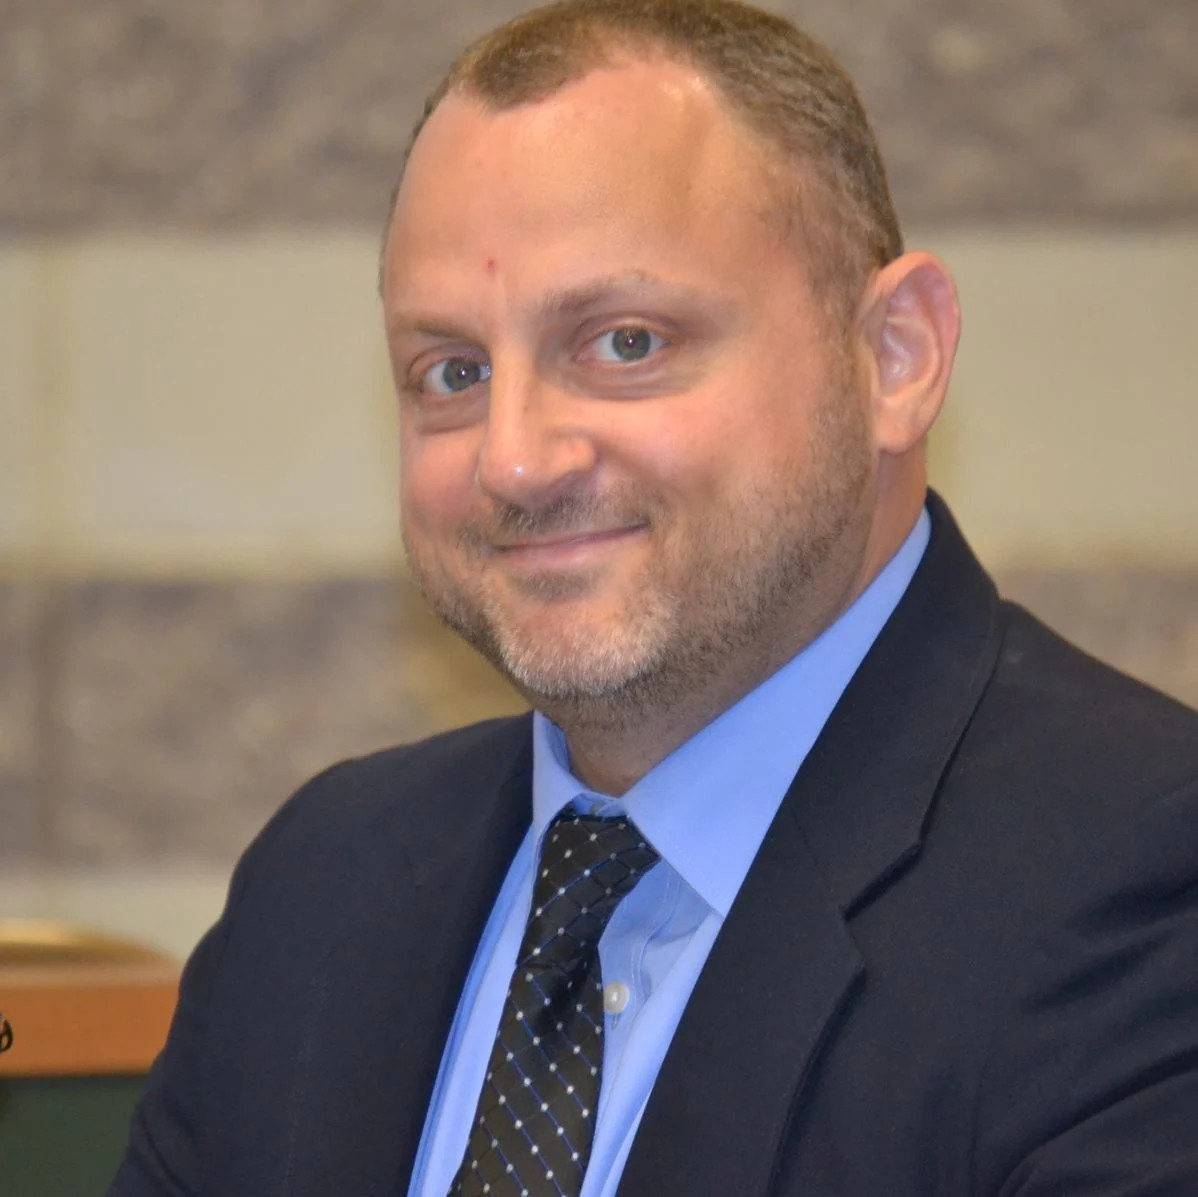
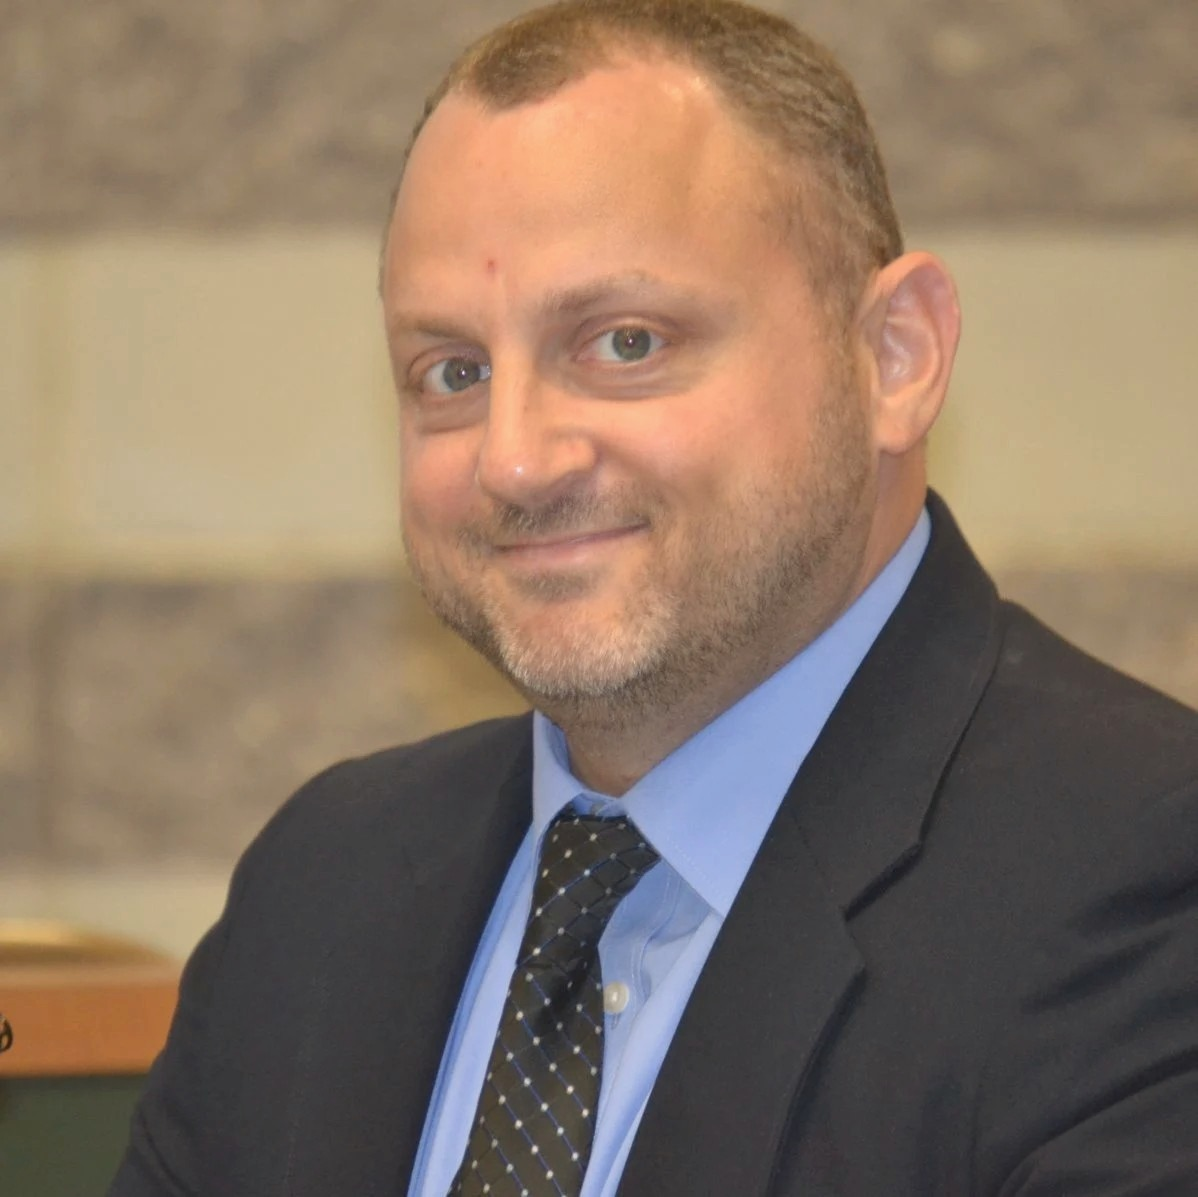
Replace quick link card images with high-quality Charleston photos and soften Benjamin Dunn headshot
- Francis Marion Hotel: downtown Charleston street with St. Michael's steeple
- Team Dinners: elegant restaurant wine & dining scene
- Explore Charleston: Rainbow Row pastel buildings
- Getting There: Ravenel Bridge at sunset
- Meet The Speakers: King Street historic architecture
- Family Activities: Pineapple Fountain at Waterfront Park
- Benjamin Dunn: applied warm natural filter to reduce harsh lighting

diff --git a/index.html b/index.html
@@ -640,7 +640,7 @@ footer a:hover { text-decoration:underline; }
 <div class="actions" id="quick-links">
   <div class="actions-grid">
     <a href="#venue" class="action-card">
-      <div class="action-bg" style="background-image:url(images/francis-marion-exterior.jpg);"></div>
+      <div class="action-bg" style="background-image:url(images/steeple-street.jpg);"></div>
       <div class="action-body">
 
         <h3>Francis Marion Hotel</h3>
@@ -649,7 +649,7 @@ footer a:hover { text-decoration:underline; }
       </div>
     </a>
     <a href="#dining" class="action-card">
-      <div class="action-bg" style="background-image:url(images/dining-card.jpg);"></div>
+      <div class="action-bg" style="background-image:url(images/dining-card-new.jpg);"></div>
       <div class="action-body">
 
         <h3>Team Dinners</h3>
@@ -658,7 +658,7 @@ footer a:hover { text-decoration:underline; }
       </div>
     </a>
     <a href="#explore" class="action-card">
-      <div class="action-bg" style="background-image:url(images/sightseeing-card.jpg);"></div>
+      <div class="action-bg" style="background-image:url(images/explore-card-new.jpg);"></div>
       <div class="action-body">
 
         <h3>Explore Charleston</h3>
@@ -667,7 +667,7 @@ footer a:hover { text-decoration:underline; }
       </div>
     </a>
     <a href="#travel" class="action-card">
-      <div class="action-bg" style="background-image:url(images/charleston-bridge.jpg);"></div>
+      <div class="action-bg" style="background-image:url(images/getting-there-new.jpg);"></div>
       <div class="action-body">
 
         <h3>Getting There</h3>
@@ -676,7 +676,7 @@ footer a:hover { text-decoration:underline; }
       </div>
     </a>
     <a href="#speakers" class="action-card">
-      <div class="action-bg" style="background-image:url(images/charleston-waterfront.jpg);"></div>
+      <div class="action-bg" style="background-image:url(images/speakers-card-new.jpg);"></div>
       <div class="action-body">
 
         <h3>Meet The Speakers</h3>
@@ -685,7 +685,7 @@ footer a:hover { text-decoration:underline; }
       </div>
     </a>
     <a href="#family" class="action-card">
-      <div class="action-bg" style="background-image:url(images/activities-card.jpg);"></div>
+      <div class="action-bg" style="background-image:url(images/family-card-new.jpg);"></div>
       <div class="action-body">
 
         <h3>Family Activities</h3>